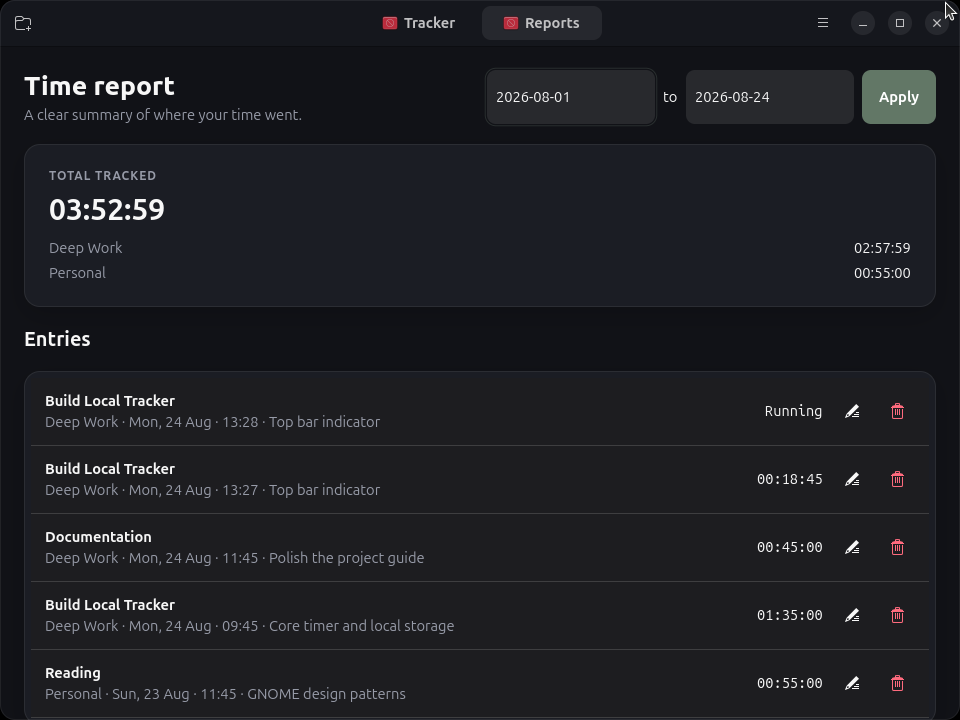
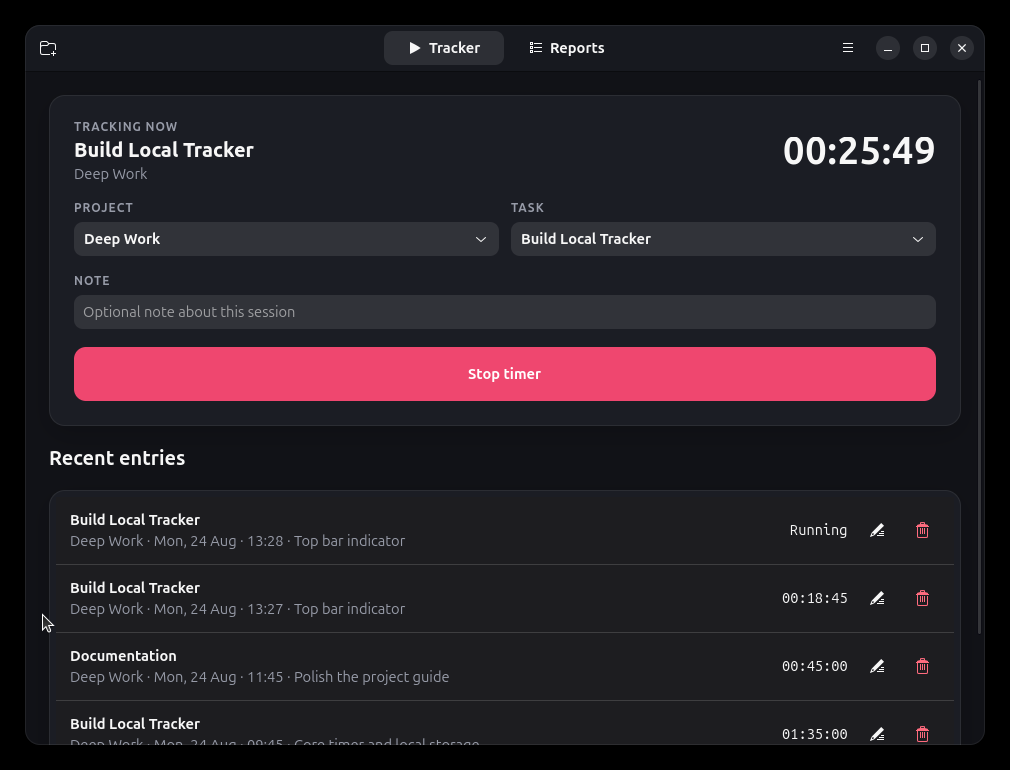
added menu to tracker

diff --git a/local_tracker/indicator.py b/local_tracker/indicator.py
@@ -4,6 +4,7 @@ from gi.repository import Gio, GLib
 
 
 OBJECT_PATH = "/StatusNotifierItem"
+MENU_PATH = "/MenuBar"
 WATCHER_NAME = "org.kde.StatusNotifierWatcher"
 WATCHER_PATH = "/StatusNotifierWatcher"
 WATCHER_INTERFACE = "org.kde.StatusNotifierWatcher"
@@ -43,6 +44,38 @@ INTROSPECTION_XML = """
     </signal>
     <signal name="NewToolTip"/>
   </interface>
+  <interface name="com.canonical.dbusmenu">
+    <property name="Version" type="u" access="read"/>
+    <property name="TextDirection" type="s" access="read"/>
+    <property name="Status" type="s" access="read"/>
+    <property name="IconThemePath" type="as" access="read"/>
+    <method name="GetLayout">
+      <arg name="parentId" type="i" direction="in"/>
+      <arg name="recursionDepth" type="i" direction="in"/>
+      <arg name="propertyNames" type="as" direction="in"/>
+      <arg name="revision" type="u" direction="out"/>
+      <arg name="layout" type="(ia{sv}av)" direction="out"/>
+    </method>
+    <method name="GetGroupProperties">
+      <arg name="ids" type="ai" direction="in"/>
+      <arg name="propertyNames" type="as" direction="in"/>
+      <arg name="properties" type="a(ia{sv})" direction="out"/>
+    </method>
+    <method name="Event">
+      <arg name="id" type="i" direction="in"/>
+      <arg name="eventId" type="s" direction="in"/>
+      <arg name="data" type="v" direction="in"/>
+      <arg name="timestamp" type="u" direction="in"/>
+    </method>
+    <method name="AboutToShow">
+      <arg name="id" type="i" direction="in"/>
+      <arg name="needUpdate" type="b" direction="out"/>
+    </method>
+    <signal name="LayoutUpdated">
+      <arg name="revision" type="u"/>
+      <arg name="parent" type="i"/>
+    </signal>
+  </interface>
 </node>
 """
 
@@ -54,20 +87,31 @@ class StatusNotifier:
         self.application = application
         self.app_id = app_id
         self.connection: Gio.DBusConnection | None = None
-        self.registration_id = 0
+        self.registration_ids: list[int] = []
         self._active_entry = None
+        self._revision = 1
         self._node_info = Gio.DBusNodeInfo.new_for_xml(INTROSPECTION_XML)
 
     def start(self) -> None:
         try:
             self.connection = Gio.bus_get_sync(Gio.BusType.SESSION, None)
-            interface = self._node_info.interfaces[0]
-            self.registration_id = self.connection.register_object(
-                OBJECT_PATH,
-                interface,
-                self._method_called,
-                self._get_property,
-                None,
+            self.registration_ids.append(
+                self.connection.register_object(
+                    OBJECT_PATH,
+                    self._node_info.interfaces[0],
+                    self._method_called,
+                    self._get_property,
+                    None,
+                )
+            )
+            self.registration_ids.append(
+                self.connection.register_object(
+                    MENU_PATH,
+                    self._node_info.interfaces[1],
+                    self._method_called,
+                    self._get_property,
+                    None,
+                )
             )
             self.connection.call(
                 WATCHER_NAME,
@@ -85,13 +129,15 @@ class StatusNotifier:
             self.stop()
 
     def stop(self) -> None:
-        if self.connection and self.registration_id:
-            self.connection.unregister_object(self.registration_id)
-        self.registration_id = 0
+        if self.connection:
+            for registration_id in self.registration_ids:
+                self.connection.unregister_object(registration_id)
+        self.registration_ids.clear()
         self.connection = None
 
     def update(self, active_entry) -> None:
         self._active_entry = active_entry
+        self._revision += 1
         if not self.connection:
             return
         try:
@@ -101,6 +147,13 @@ class StatusNotifier:
                 "org.kde.StatusNotifierItem",
                 "NewToolTip",
                 None,
+            )
+            self.connection.emit_signal(
+                None,
+                MENU_PATH,
+                "com.canonical.dbusmenu",
+                "LayoutUpdated",
+                GLib.Variant("(ui)", (self._revision, 0)),
             )
         except GLib.Error:
             pass
@@ -117,23 +170,63 @@ class StatusNotifier:
         _connection,
         _sender,
         _object_path,
-        _interface_name,
+        interface_name,
         method_name,
-        _parameters,
+        parameters,
         invocation: Gio.DBusMethodInvocation,
     ) -> None:
-        if method_name in {"Activate", "SecondaryActivate", "ContextMenu"}:
+        if interface_name == "com.canonical.dbusmenu":
+            self._menu_method(method_name, parameters, invocation)
+            return
+        if method_name in {"Activate", "SecondaryActivate"}:
             GLib.idle_add(self.application.activate)
         invocation.return_value(None)
+
+    def _menu_method(
+        self,
+        method_name: str,
+        parameters: GLib.Variant,
+        invocation: Gio.DBusMethodInvocation,
+    ) -> None:
+        if method_name == "GetLayout":
+            invocation.return_value(self._layout())
+        elif method_name == "GetGroupProperties":
+            ids, _property_names = parameters.unpack()
+            properties = [
+                (item_id, self._item_properties(item_id))
+                for item_id in ids
+                if item_id in {0, 1, 2, 3, 4, 5, 6}
+            ]
+            invocation.return_value(GLib.Variant("(a(ia{sv}))", (properties,)))
+        elif method_name == "AboutToShow":
+            invocation.return_value(GLib.Variant("(b)", (False,)))
+        elif method_name == "Event":
+            item_id, event_id, _data, _timestamp = parameters.unpack()
+            if event_id == "clicked":
+                self._activate_menu_item(item_id)
+            invocation.return_value(None)
+        else:
+            invocation.return_dbus_error(
+                "com.canonical.dbusmenu.Error.UnknownMethod",
+                f"Unknown menu method: {method_name}",
+            )
 
     def _get_property(
         self,
         _connection,
         _sender,
         _object_path,
-        _interface_name,
+        interface_name,
         property_name: str,
     ) -> GLib.Variant:
+        if interface_name == "com.canonical.dbusmenu":
+            menu_values = {
+                "Version": GLib.Variant("u", 3),
+                "TextDirection": GLib.Variant("s", "ltr"),
+                "Status": GLib.Variant("s", "normal"),
+                "IconThemePath": GLib.Variant("as", []),
+            }
+            return menu_values[property_name]
         values = {
             "Category": GLib.Variant("s", "ApplicationStatus"),
             "Id": GLib.Variant("s", self.app_id),
@@ -145,9 +238,62 @@ class StatusNotifier:
             "OverlayIconName": GLib.Variant("s", ""),
             "AttentionIconName": GLib.Variant("s", self.app_id),
             "ItemIsMenu": GLib.Variant("b", False),
-            "Menu": GLib.Variant("o", "/NO_DBUSMENU"),
+            "Menu": GLib.Variant("o", MENU_PATH),
         }
         return values[property_name]
+
+    def _layout(self) -> GLib.Variant:
+        children = [
+            self._menu_item(item_id)
+            for item_id in (1, 2, 3, 4, 5, 6)
+        ]
+        return GLib.Variant(
+            "(u(ia{sv}av))",
+            (self._revision, (0, {}, children)),
+        )
+
+    def _menu_item(self, item_id: int) -> GLib.Variant:
+        return GLib.Variant(
+            "(ia{sv}av)",
+            (item_id, self._item_properties(item_id), []),
+        )
+
+    def _item_properties(self, item_id: int) -> dict[str, GLib.Variant]:
+        active = self._active_entry is not None
+        if item_id in {2, 5}:
+            return {"type": GLib.Variant("s", "separator")}
+        labels = {
+            1: "Show Local Tracker",
+            3: self._start_label(),
+            4: "Stop timer",
+            6: "Quit",
+        }
+        properties = {
+            "label": GLib.Variant("s", labels.get(item_id, "")),
+            "enabled": GLib.Variant(
+                "b",
+                (item_id != 3 or not active) and (item_id != 4 or active),
+            ),
+            "visible": GLib.Variant("b", True),
+        }
+        if item_id == 1:
+            properties["icon-name"] = GLib.Variant("s", self.app_id)
+        return properties
+
+    def _activate_menu_item(self, item_id: int) -> None:
+        callbacks = {
+            1: self.application.activate,
+            3: self.application.start_last_timer,
+            4: self.application.stop_timer_from_indicator,
+            6: self.application.quit_from_indicator,
+        }
+        callback = callbacks.get(item_id)
+        if callback:
+            GLib.idle_add(callback)
+
+    def _start_label(self) -> str:
+        task = self.application.last_startable_task()
+        return f"Start {task.name}" if task else "Start last task"
 
     def _title(self) -> str:
         if self._active_entry:

diff --git a/local_tracker/application.py b/local_tracker/application.py
@@ -22,10 +22,13 @@ class LocalTrackerApplication(Adw.Application):
         self.service: TrackerService | None = None
         self.window = None
         self.indicator: StatusNotifier | None = None
+        self._tray_held = False
         self._timer_held = False
 
         self.create_action("quit", self.on_quit, ["<primary>q"])
         self.create_action("show", self.on_show)
+        self.create_action("show-tracker", self.on_show_tracker, ["<primary>1"])
+        self.create_action("show-reports", self.on_show_reports, ["<primary>2"])
         self.create_action("stop-timer", self.on_stop_timer)
         self.create_action("about", self.on_about)
 
@@ -50,6 +53,8 @@ class LocalTrackerApplication(Adw.Application):
             return
         self.indicator = StatusNotifier(self, APP_ID)
         self.indicator.start()
+        self.hold()
+        self._tray_held = True
         self.service.subscribe(self._sync_background_state)
         self._sync_background_state()
 
@@ -105,9 +110,54 @@ class LocalTrackerApplication(Adw.Application):
     def on_show(self, *_args) -> None:
         self.activate()
 
+    def on_show_tracker(self, *_args) -> None:
+        self.activate()
+        self.window.stack.set_visible_child_name("tracker")
+
+    def on_show_reports(self, *_args) -> None:
+        self.activate()
+        self.window.stack.set_visible_child_name("reports")
+
     def on_stop_timer(self, *_args) -> None:
         if self.service:
             self.service.stop()
+
+    def last_startable_task(self):
+        if not self.service:
+            return None
+        for entry in sorted(
+            self.service.data.entries,
+            key=lambda candidate: candidate.start_at,
+            reverse=True,
+        ):
+            try:
+                task = self.service.task(entry.task_id)
+                project = self.service.project(task.project_id)
+            except ValueError:
+                continue
+            if not task.archived and not project.archived:
+                return task
+        tasks = self.service.active_tasks()
+        return tasks[0] if tasks else None
+
+    def start_last_timer(self) -> bool:
+        if not self.service or self.service.active_entry:
+            return GLib.SOURCE_REMOVE
+        task = self.last_startable_task()
+        if task:
+            self.service.start(task.id)
+        else:
+            self.activate()
+        return GLib.SOURCE_REMOVE
+
+    def stop_timer_from_indicator(self) -> bool:
+        if self.service:
+            self.service.stop()
+        return GLib.SOURCE_REMOVE
+
+    def quit_from_indicator(self) -> bool:
+        self.on_quit()
+        return GLib.SOURCE_REMOVE
 
     def on_quit(self, *_args) -> None:
         if self.service and self.service.active_entry:

diff --git a/local_tracker/window.py b/local_tracker/window.py
@@ -58,8 +58,18 @@ class MainWindow(Adw.ApplicationWindow):
         self.stack = Adw.ViewStack()
         self.tracker_page = self._build_tracker_page()
         self.report_page = self._build_report_page()
-        self.stack.add_titled(self.tracker_page, "tracker", "Tracker")
-        self.stack.add_titled(self.report_page, "reports", "Reports")
+        self.stack.add_titled_with_icon(
+            self.tracker_page,
+            "tracker",
+            "Tracker",
+            "media-playback-start-symbolic",
+        )
+        self.stack.add_titled_with_icon(
+            self.report_page,
+            "reports",
+            "Reports",
+            "view-list-symbolic",
+        )
         self.stack.connect(
             "notify::visible-child-name",
             lambda *_: self._refresh_report()
@@ -71,6 +81,7 @@ class MainWindow(Adw.ApplicationWindow):
 
         self.set_content(toolbar)
         self.service.subscribe(self.refresh)
+        self.connect("close-request", self._hide_to_tray)
         self.connect("destroy", self._on_destroy)
         self._timer_source = GLib.timeout_add_seconds(1, self._tick)
         self.refresh()
@@ -468,6 +479,10 @@ class MainWindow(Adw.ApplicationWindow):
         if self._timer_source:
             GLib.source_remove(self._timer_source)
             self._timer_source = 0
+
+    def _hide_to_tray(self, *_args) -> bool:
+        self.set_visible(False)
+        return True
 
     @staticmethod
     def _clear(listbox: Gtk.ListBox) -> None:

diff --git a/README.md b/README.md
@@ -4,12 +4,25 @@ A focused, dark-mode time tracker for GNOME. Local Tracker has no account,
 network integration, analytics, or server. Projects, reusable tasks, notes, and
 time entries are stored in one local JSON file with atomic writes and a backup.
 
+## Screenshots
+
+The screenshots use demonstration data only.
+
+### Tracker
+
+![Local Tracker timer view](screenshots/tracker.png)
+
+### Reports
+
+![Local Tracker report view](screenshots/reports.png)
+
 ## Features
 
 - Start, stop, switch, edit, and delete time entries
 - Reusable tasks grouped by colored projects
 - Project totals and date-range reports
-- GNOME notification controls while the window is closed
+- Persistent GNOME tray controls for start, stop, show, and quit
+- Closing the window hides it while the tray process stays available
 - Crash-safe active timer restoration
 - Native GTK 4 and libadwaita interface
 - Flatpak sandbox with no network permission
